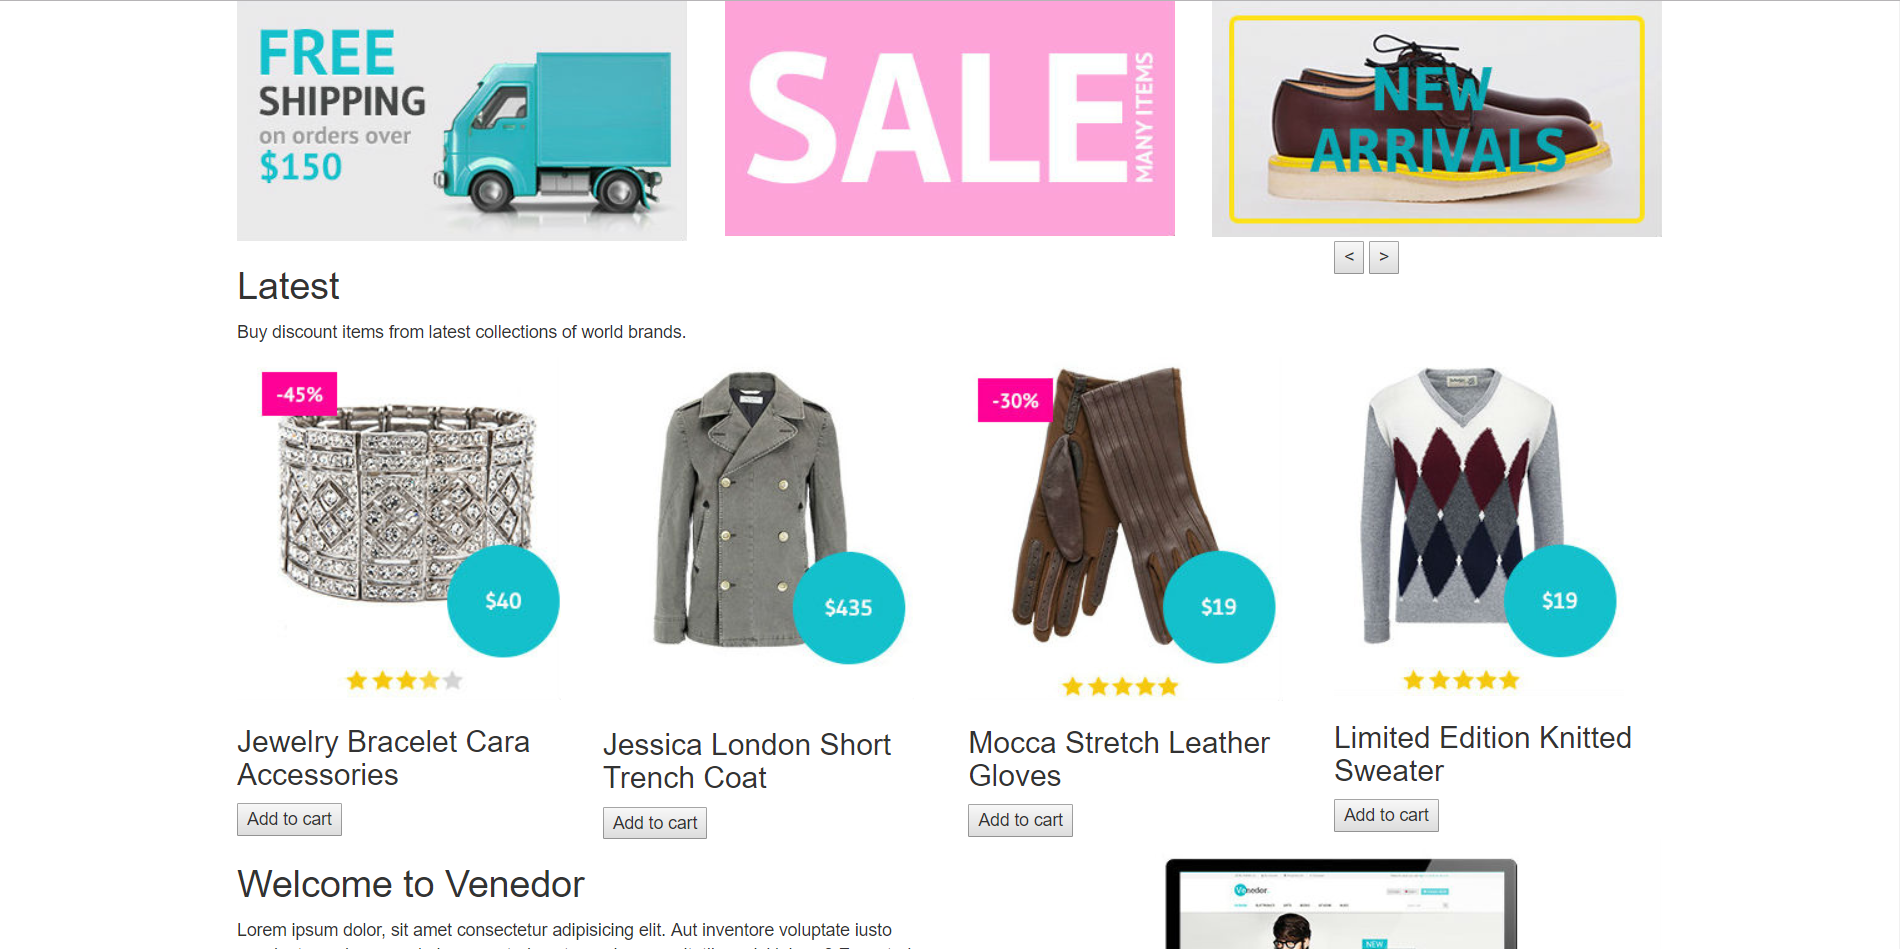
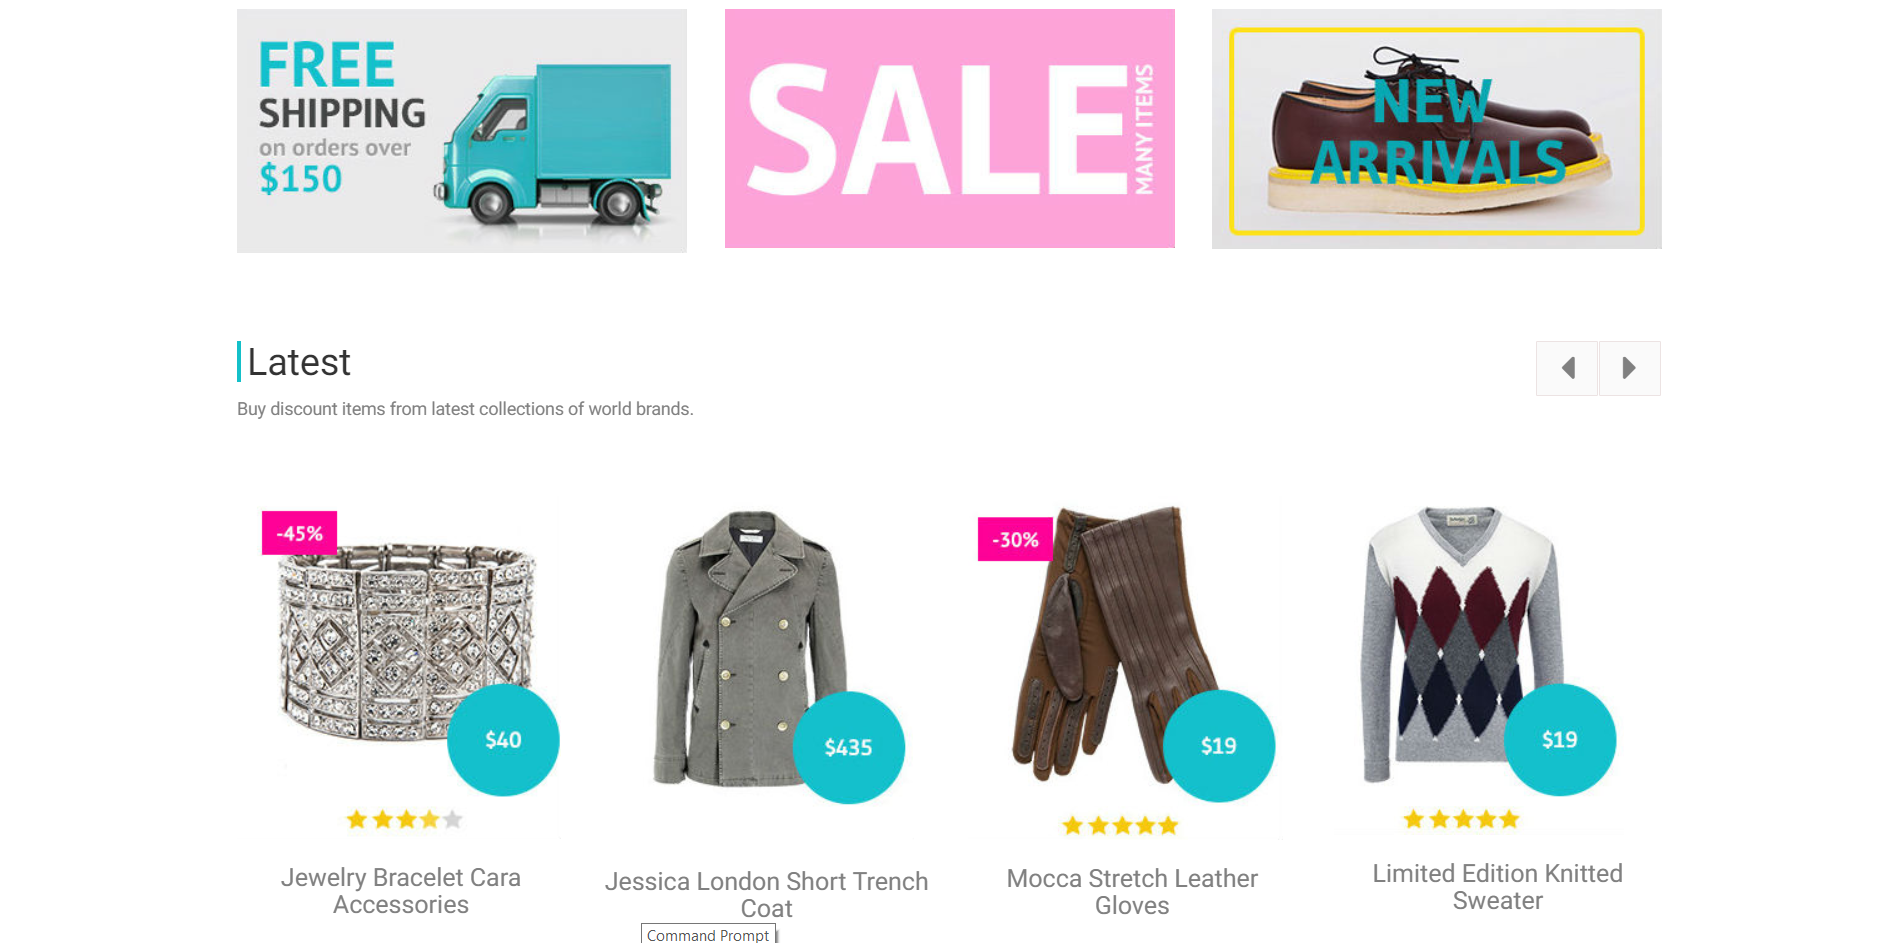
added style.css to the index.html

diff --git a/index.html b/index.html
@@ -6,6 +6,7 @@
         <meta name="viewport" content="width=device-width, initial-scale=1.0">
         <meta http-equiv="X-UA-Compatible" content="ie=edge">
         <title>Bootstrap Project</title>
+        <link rel="shortcut icon"href="favicon.ico">
         <link href="https://fonts.googleapis.com/css?family=Roboto" rel="stylesheet">
         <link rel="stylesheet" href="https://use.fontawesome.com/releases/v5.2.0/css/all.css" integrity="sha384-hWVjflwFxL6sNzntih27bfxkr27PmbbK/iSvJ+a4+0owXq79v+lsFkW54bOGbiDQ" crossorigin="anonymous">
         <link rel="stylesheet" href="css/bootstrap.css">
@@ -18,7 +19,7 @@
                 <div class="top-bar-inner row">
                     <div class="col-sm-6">
                         <ul>
-                            <li><a href="#"><i class="fas fa-edit"></i>My Wishlist</a></li>
+                            <li><a href="#"><i class="fas fa-edit"></i>My Wishlist (0)</a></li>
                             <li><a href="#"><i class="fas fa-user"></i>My Account</a></li>
                             <li><a href="#"><i class="fas fa-shopping-cart"></i>Shopping Cart</a></li>
                             <li><a href="#"><i class="fas fa-check"></i>Checkout</a></li>
@@ -48,12 +49,11 @@
                                 <select name="language">
                                     <option value="english">English</option>
                                     <option value="spanish">Spanish</option>
-                                    <option value="portuguese">Portuguese</option>
                                     <option value="chinese">Chinese</option>
                                 </select>
                             </form>
                         </li>
-                        <li><a href="#" class="picked-items">0 itema(s) - $0.00</a></li>
+                        <li><a href="#" class="picked-items"><i class="fas fa-shopping-cart"></i> 0 itema(s) - $0.00</a></li>
                     </ul>
                 </div>
             </div>
@@ -104,8 +104,8 @@
                     <h2>Latest</h2>
                 </div>
                 <div class="col-sm-3">
-                    <button class="arrow">&gt;</button>
-                    <button class="arrow">&lt;</button>
+                    <button class="arrow"><i class="fas fa-caret-right"></i></button>
+                    <button class="arrow"><i class="fas fa-caret-left"></i></button>
                 </div>
                 <div class="col-sm-12">
                     <p>Buy discount items from latest collections of world brands.</p>
@@ -144,7 +144,7 @@
                         <div class="col-sm-12">
                             <p class="indent">Lorem ipsum dolor, sit amet consectetur adipisicing elit. Aut inventore voluptate iusto nesciunt quasi vero unde in, excepturi nostrum ab necessitatibus nisi labore? Excepturi ullam aspernatur, blanditiis perspiciatis dolorum quos.</p>
                             <p class="indent">Lorem ipsum dolor sit amet consectetur adipisicing elit. Officia, itaque adipisci molestiae voluptatibus nostrum commodi ipsum reprehenderit error ea similique provident natus dolorem voluptas. Inventore labore libero harum. Architecto, fugiat?</p>
-                            <a href="#">Buy Venedor Theme!</a>
+                            <a href="#" class="reverse-links">Buy Venedor Theme!</a>
                         </div>
                     </div>
                 </div>
@@ -159,8 +159,8 @@
                     <h2>Bestsellers</h2>
                 </div>
                 <div class="col-sm-3">
-                    <button class="arrow">&gt;</button>
-                    <button class="arrow">&lt;</button>
+                    <button class="arrow"><i class="fas fa-caret-right"></i></button>
+                    <button class="arrow"><i class="fas fa-caret-left"></i></button>
                 </div>
                 <div class="col-sm-12">
                     <p>Special offers and biggest discounts for the most popular products.</p>
@@ -195,8 +195,8 @@
                     <h2>Manufacturers</h2>
                 </div>
                 <div class="col-sm-3">
-                    <button class="arrow">&gt;</button>
-                    <button class="arrow">&lt;</button>
+                    <button class="arrow"><i class="fas fa-caret-right"></i></button>
+                    <button class="arrow"><i class="fas fa-caret-left"></i></button>
                 </div>
             </div>
             <div class="row">
@@ -262,12 +262,12 @@
                     </div>
                     <div class="col-sm-3">
                         <h3>From Twitter</h3>
-                        <p>Lorem ipsum dolor sit amet consectetur adipisicing elit. Architecto expedita autem enim beatae accusamus iure <a href="#">http://lorem/lorem12345</a></p>
-                        <p>about 1 hour ago</p>
-                        <p>Lorem ipsum dolor sit amet consectetur, adipisicing elit. Voluptate, quis simil <a href="#">http://lorem/123</a> tempore</p>
-                        <p>about 3 hours ago</p>
+                        <p class="twitter-replies">Lorem ipsum dolor sit amet consectetur adipisicing elit. Architecto expedita autem enim beatae accusamus iure <a href="#" class="reverse-links">http://lorem/lorem12345</a></p>
+                        <p class="latest-replies">about 1 hour ago</p>
+                        <p class="twitter-replies">Lorem ipsum dolor sit amet consectetur, adipisicing elit. Voluptate, quis simil <a href="#" class="reverse-links">http://lorem/123</a> tempore</p>
+                        <p class="latest-replies">about 3 hours ago</p>
                     </div>
-                    <div class="col-sm-3">
+                    <div class="facebook-likes col-sm-3">
                         <div class="row">
                             <div class="col-sm-6">
                                 <h3>Facebook</h3>
@@ -276,8 +276,8 @@
                                 <button class="like-button"><i class="far fa-thumbs-up"></i> Like!</button>
                             </div>
                         </div>
-                        <p>1234 people like <a href="#">PromoKit</a></p>
-                        <div class="row">
+                        <p>1234 people like <a href="#" class="reverse-links">PromoKit</a></p>
+                        <div class="facebook-imgs row">
                             <div class="col-sm-4">
                                 <img src="images/fb1.jpg" alt="" class="img-responsive">
                                 <p>Anna</p>
@@ -291,7 +291,7 @@
                                 <p>Antuan</p>
                             </div>
                         </div>
-                        <div class="row">
+                        <div class="facebook-imgs row">
                             <div class="col-sm-4">
                                 <img src="images/fb4.jpg" alt="" class="img-responsive">
                                 <p>Milla</p>

diff --git a/css/style.css b/css/style.css
@@ -7,20 +7,26 @@ body {
 }
 
 a {
-    text-decoration: none;
     color: gray;
+    text-decoration: none;
 }
 
 a:hover, a:active, a:focus {
-    text-decoration: none;
     color: #14c0c9;
+    text-decoration: none;
 }
 h2 {
-    padding-left: 10px;
+    padding-left: 5px;
     border-left: 3px solid #14c0c9;
 }
 p {
     color: gray;
+}
+.reverse-links {
+    color: #14c0c9;
+}
+.reverse-links:hover {
+    text-decoration: underline;
 }
 /**/
 
@@ -29,28 +35,29 @@ p {
 
 
 .arrow {
+    float: right;
     margin-top: 20px;
     margin-right: 1px;
-    padding: 5px 20px;
-    background-color: #fafafa;
-    color: gray;
+    padding: 0px 18px;
     border: 1px solid rgb(236, 227, 227);
     border-radius: 1px;
-    font-size: 20px;
-    float: right;
+    background-color: #fafafa;
+    color: gray;
+    border-radius: 1px;
+    font-size: 30px;
 }
 .arrow:hover {
+    border-color: #14c0c9;
     background-color: #14c0c9;
     color: white;
-    border-color: #14c0c9;
 }
 .add-cart {
     margin-top: 20px;
     padding: 7px 16px;
-    background-color: #434a4a;
-    color: rgb(161, 161, 161);
     border: none;
     border-radius: 3px;
+    background-color: #434a4a;
+    color: rgb(161, 161, 161);
     font-size: 15px;
     text-transform: uppercase;
 }
@@ -79,17 +86,17 @@ p {
 
 .top-bar {
     padding-top: 5px;
-    background-color: #f5f5f5;
     border-top: 3px solid #14c0c9;
+    background-color: #f5f5f5;
 }
 .top-bar-inner ul {
     padding: 0;
 }
 .top-bar-inner li {
-    list-style: none;
-    display: inline;
     margin-right: 15px;
     padding-left: 5px;
+    list-style: none;
+    display: inline;
 }
 .top-bar-inner p {
     text-align: right;
@@ -104,6 +111,8 @@ p {
 .top-bar-inner li i {
     margin-right: 10px;
 }
+
+
 /**/
 
 
@@ -116,36 +125,36 @@ p {
     padding-bottom: 20px;
 }
 .users-status-bar ul {
-    list-style: none;
     text-align: right;
+    list-style: none;
 }
 .users-status-bar ul li {
     display: inline;
 }
+.users-status {
+    margin-top: 50px;
+}
 .cur-lang {
-    display: inline;
     margin-right: 1px;
+    display: inline;
 }
 .cur-lang select {
+    padding: 10px;
     -webkit-appearance: none;
     border: none;
     background: #f5f5f5;
     color: gray;
-    padding: 10px;
     text-align: center;
     cursor: pointer;
 }
-.users-status {
-    margin-top: 50px;
-}
-.picked-items {
-    background-color: #14c0c9;
-    color: white;
-    padding: 10px;
-    margin-left: 5px;
-}
 .cur-lang:hover {
     color: gray;
+}
+.picked-items {
+    padding: 10px;
+    margin-left: 5px;
+    background-color: #14c0c9;
+    color: white;
 }
 .picked-items:hover {
     color: white;
@@ -155,17 +164,17 @@ p {
 /*Main-Nav-Bar*/
 
 .main-nav-bar ul {
-    list-style: none;
     padding: 0;
     margin-top: 10px;
     margin-bottom: 0;
+    list-style: none;
 }
 .main-nav-bar ul li {
-    display: inline;
+    padding-left: 5px;
     margin-right: 25px;
+    display: inline;
     font-size: 16px;
     text-transform: uppercase;
-    padding-left: 5px;
 }
 .main-nav-bar a {
     color: black;
@@ -188,10 +197,9 @@ p {
 
 
 .hero {
-    /*background: #e5e6e3 url('../images/hero_bg.jpg');*/
+    margin-bottom: 25px;
     background: #e6e6e3;
     background: linear-gradient(to bottom, #e6e6e3 0%,#f0f0ed 50%,#c2c2c2 100%);
-    margin-bottom: 25px;
 }
 /**/
 
@@ -207,6 +215,10 @@ p {
 .merch {
     margin-bottom: 40px;
 }
+.merch h3 {
+    color: gray;
+    font-size: 20px;
+}
 .merch-type {
     padding-bottom: 50px;
 }
@@ -220,8 +232,8 @@ p {
 
 /*Sign Up*/
 .sign-up {
-    background-color: #d4d4d4;
     padding: 25px 0;
+    background-color: #d4d4d4;
 }
 .sign-up p {
     margin-top: 6px;
@@ -245,10 +257,10 @@ p {
 }
 .sign-up button {
     padding: 9px 20px;
-    background-color: #434a4a;
-    color: white;
     border: none;
     border-radius: 3px;
+    background-color: #434a4a;
+    color: white;
     font-size: 18px;
     text-transform: uppercase;
 }
@@ -259,21 +271,41 @@ p {
 
 /*Users info*/
 .user-info {
-    background-color: #424a4a;
     padding: 70px 0;
     border-bottom: 1px solid black;
+    background-color: #424a4a;
 }
 .user-info h3 {
-    color: white;
+    margin-bottom: 20px;
+    color: rgb(207, 207, 207);
     text-transform: uppercase;
-    margin-bottom: 10px;
 }
 .user-info ul {
+    padding-left: 12px;
     list-style-image: url("../images/square.jpg")
 }
 .user-info li {
-    margin-bottom: 20px;
-    font-size: 16px;
+    margin-bottom: 15px;
+    color: rgb(161, 161, 161);
+    font-size: 14px;
+}
+.user-info li a {
+    color: rgb(161, 161, 161);
+}
+.user-info li a:hover {
+    color: #14c0c9;
+}
+.twitter-replies {
+    color: rgb(161, 161, 161);
+}
+.latest-replies {
+    color: rgb(105, 105, 105);
+}
+.facebook-likes p {
+    color: rgb(161, 161, 161);
+}
+.facebook-imgs {
+    text-align: center;
 }
 /**/
 
@@ -281,10 +313,12 @@ p {
 
 .bottom-bar {
     padding: 20px 0;
-    background-color: #424a4a;
     border-top: 1px solid gray;
+    background-color: #424a4a;
 }
-.bottom-bar {
-
+.bottom-bar p {
+    text-align: right;
+    margin-top: 10px;
+    color: rgb(161, 161, 161);
 }
 /**/
